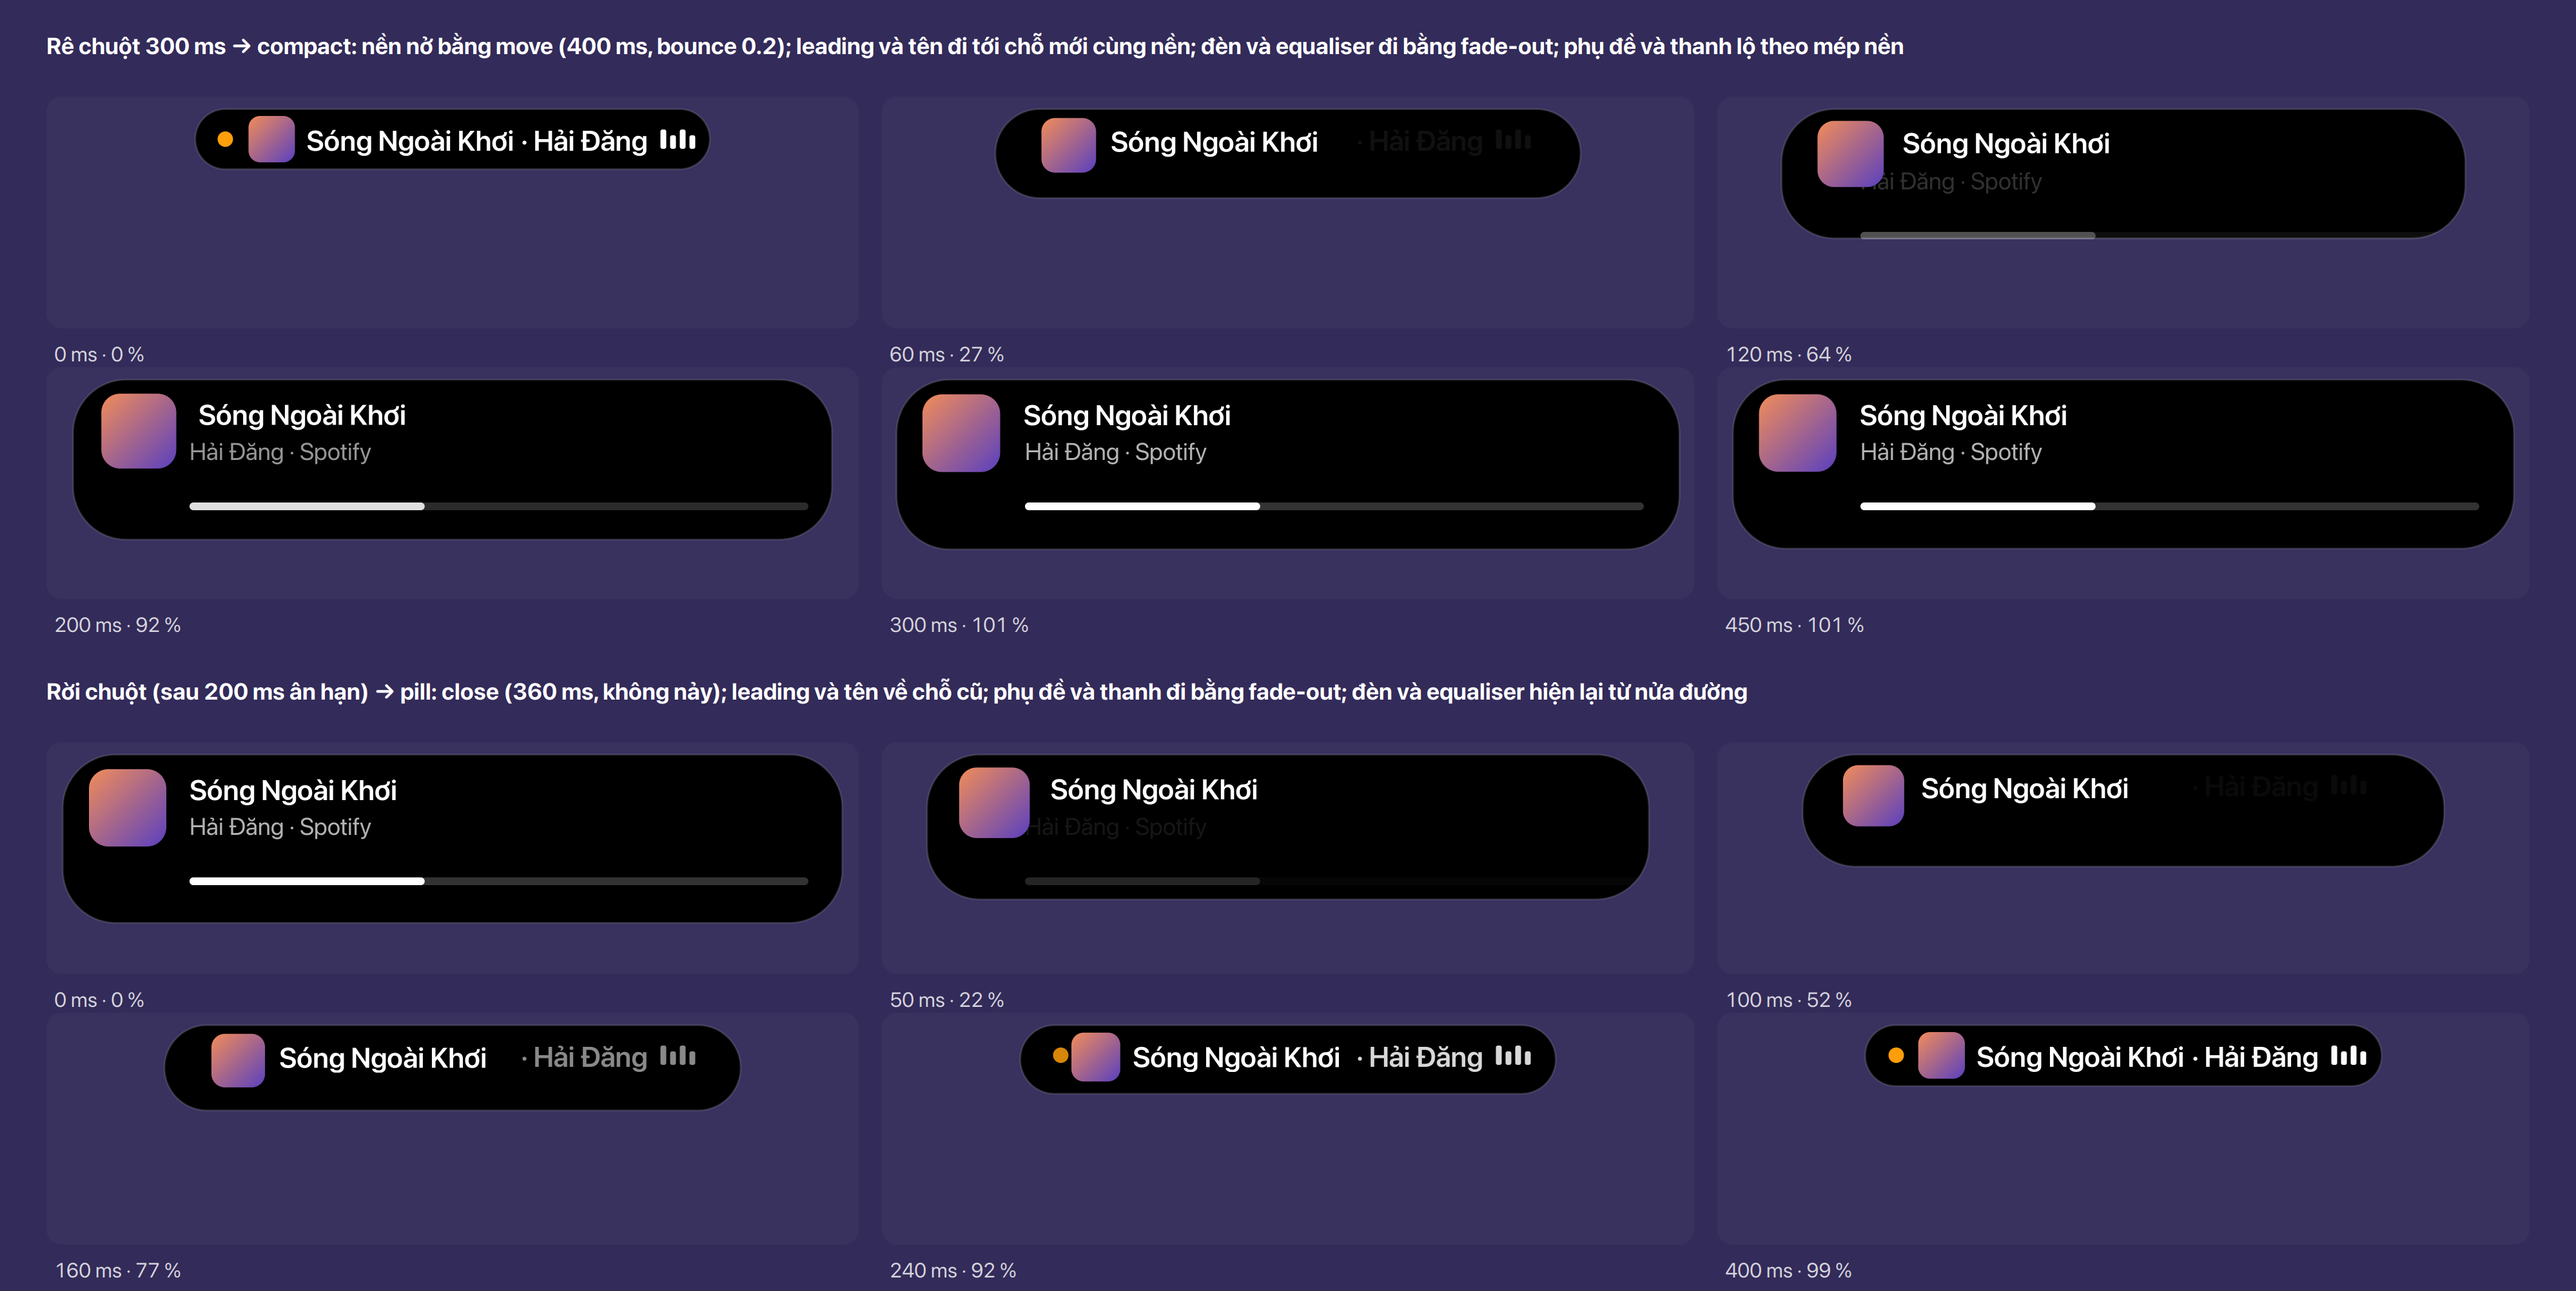
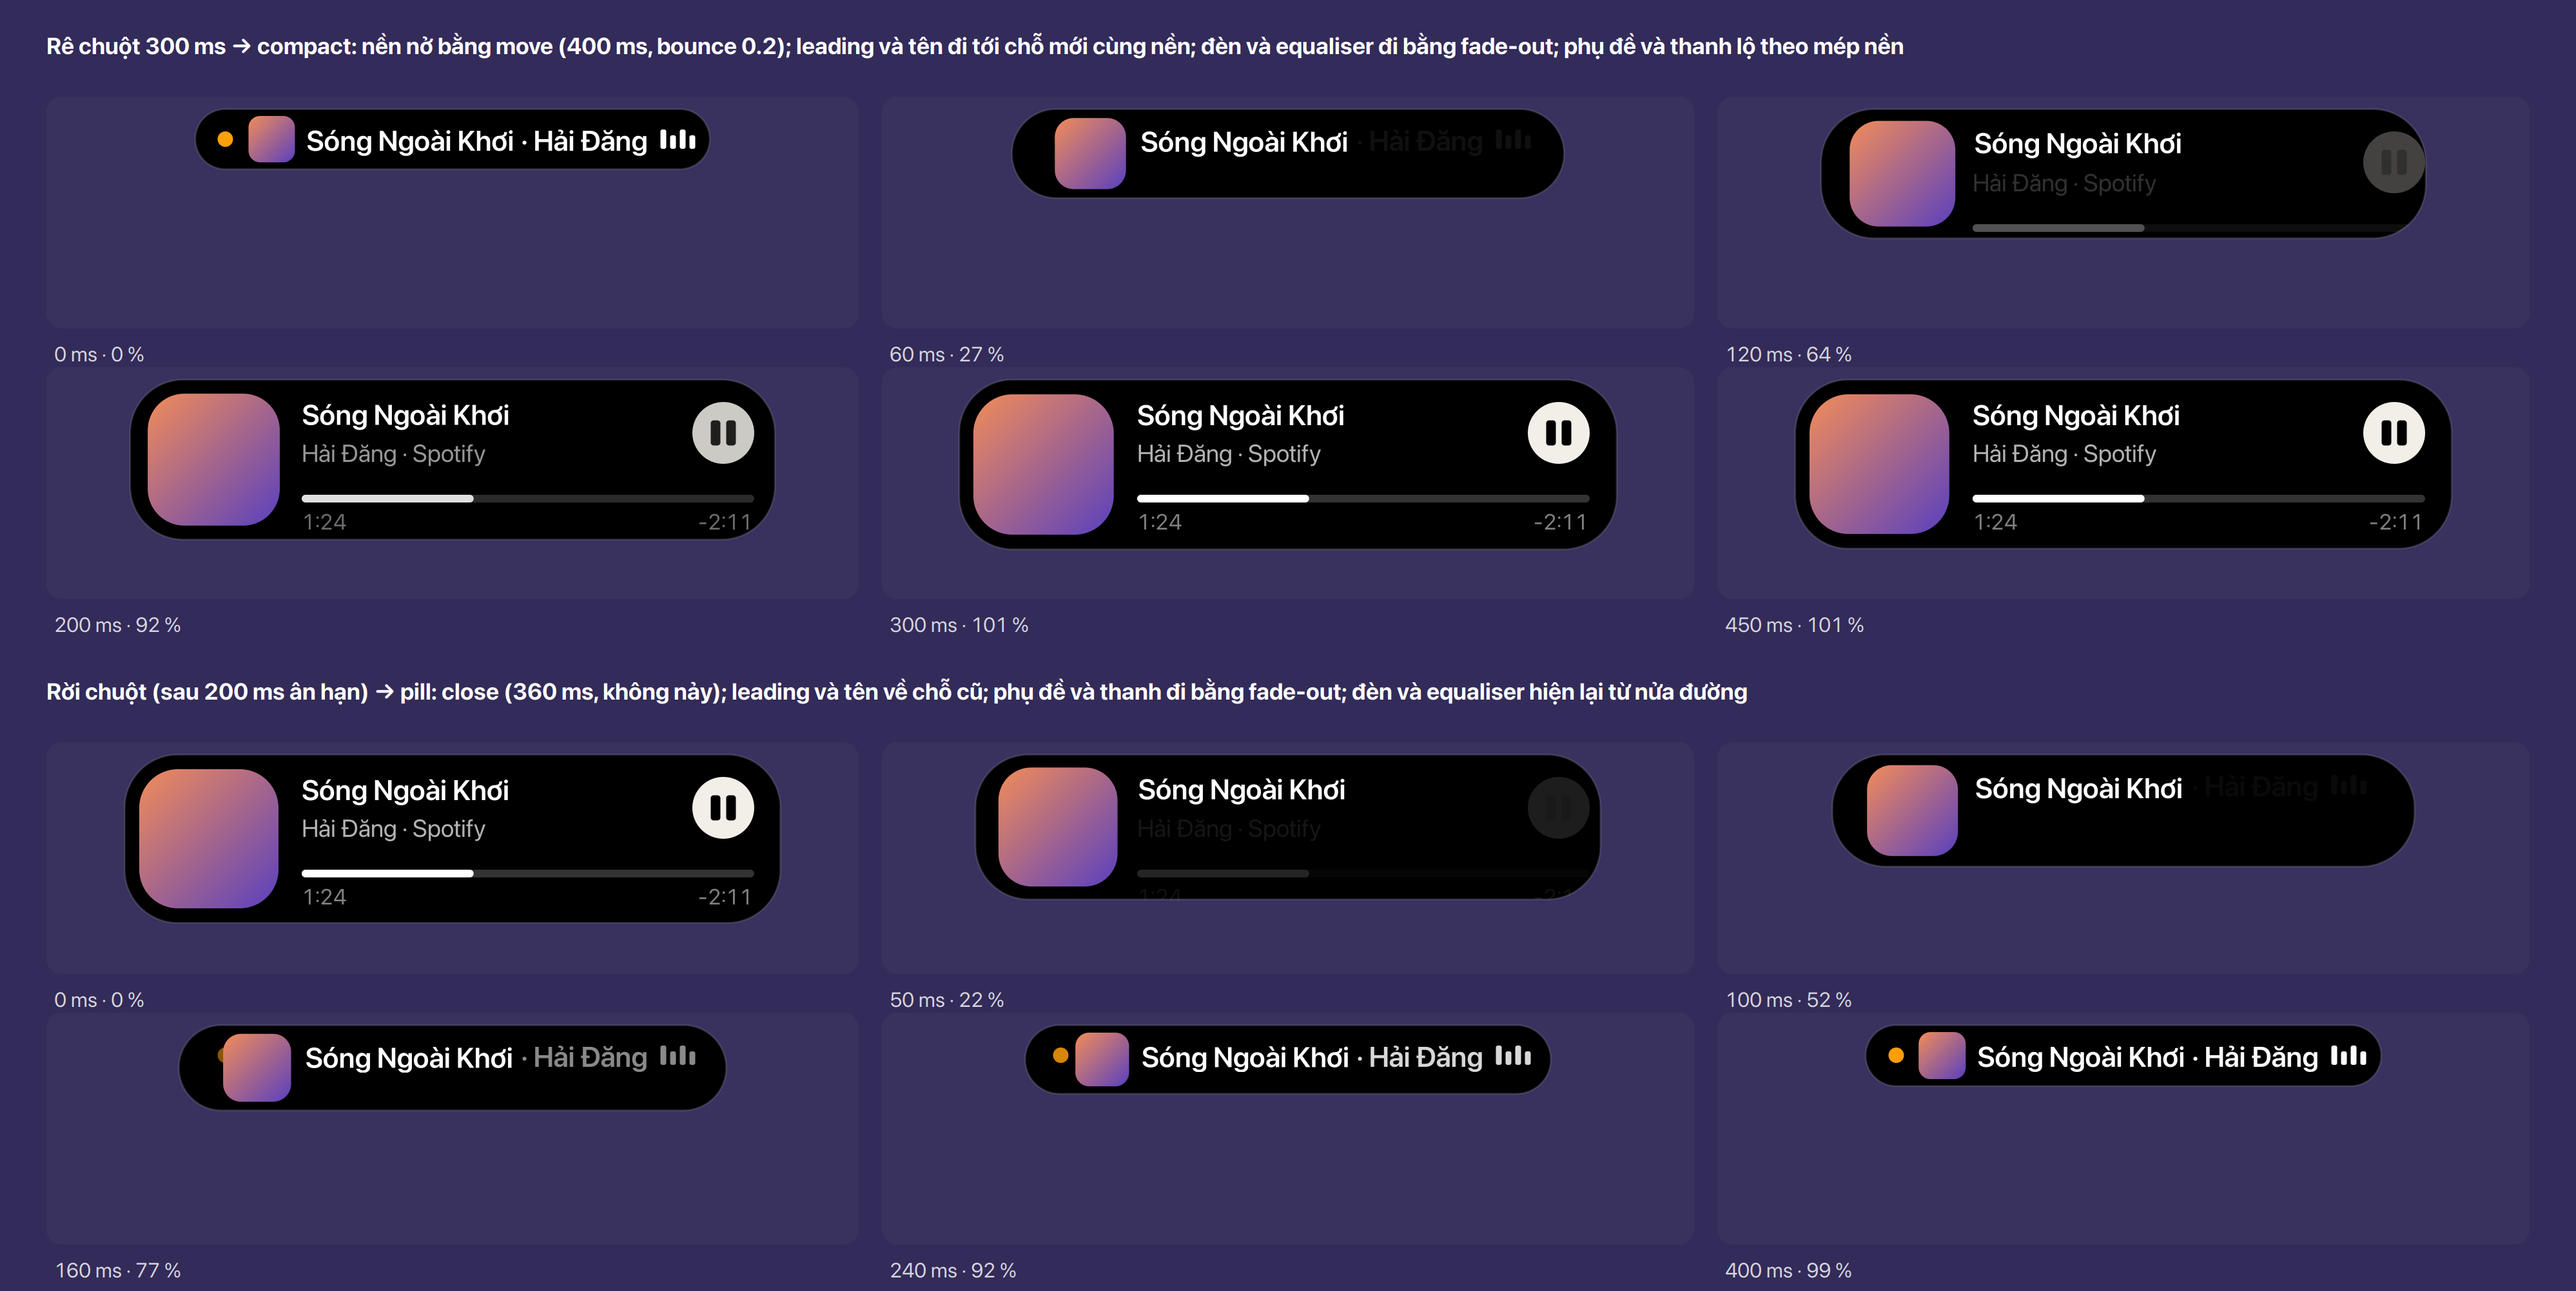
docs(design): motion pill → compact on the media 88 compact (#199)
docs(design): motion pill → compact drawn on the media 88 compact

The motion stills, clip and text drew an old compact (leading 40, no button, no times). Now the
compact is media 88 as decided (design/compact): the pill's leading 24 grows into the art 72
(bo 6 → 20) and travels to (8, 8), the title to 92; the subtitle, button, bar and times are
uncovered by the edge. Expanded's leading reads 24 → 88.

Refs: FEATURES.md M4 "Motion" (#194)

diff --git a/docs/design/motion/render/motion.js b/docs/design/motion/render/motion.js
@@ -77,9 +77,9 @@ function shape(x, y, w, h, alpha = 1) {
     cr.setSourceRGBA(1, 1, 1, C.BORDER * alpha); cr.setLineWidth(1); cr.stroke();
 }
 function clipTo(x, y, w, h) { cr.newPath(); rr(x, y, w, h, Math.min(h / 2, 28)); cr.clip(); }
-const art = (x, y, s, a = 1) => { // the sample cover (lib.js COVER)
+const art = (x, y, s, a = 1, r = s / 4) => { // the sample cover (lib.js COVER)
     const g = new cairo.LinearGradient(x, y, x + s, y + s); g.addColorStopRGBA(0, ...COVER[0], a); g.addColorStopRGBA(1, ...COVER[1], a);
-    cr.newPath(); rr(x, y, s, s, s / 4); cr.setSource(g); cr.fill();
+    cr.newPath(); rr(x, y, s, s, r); cr.setSource(g); cr.fill();
 };
 const caption = (t, x, y, opts = {}) => text(t, x, y, {sz: 8, a: .8, ...opts});
 function title(t, x, y, maxW = 0) {
@@ -152,13 +152,16 @@ function curves() {
 // wider than hinted at 1×, and " · artist" must start where the drawn title ends.
 const BY = ` · ${SAMPLE.artist}`;
 let TITLE_W = 0;
-const PILL = {w: 0, h: 32, lead: {x: 28, y: 4, s: 24}, title: {x: 58, y: 8, sz: 11}};
-const COMPACT = {w: 404, h: 88, lead: {x: 14, y: 8, s: 40}, title: {x: 66, y: 10, sz: 11}};
-const EXP = {w: 560, h: 280, lead: {x: 20, y: 64, s: 88}, title: {x: 120, y: 74, sz: 13}};
+// The compact is media 88 (design/compact): the art 72 at 8 with bo 20, the text 12 after it, the
+// round button 14 from the right edge, the bar and the times under the text; as wide as the
+// compact's anatomy drawing (340).
+const PILL = {w: 0, h: 32, lead: {x: 28, y: 4, s: 24, r: 6}, title: {x: 58, y: 8, sz: 11}};
+const COMPACT = {w: 340, h: 88, lead: {x: 8, y: 8, s: 72, r: 20}, title: {x: 92, y: 10, sz: 11}};
+const EXP = {w: 560, h: 280, lead: {x: 20, y: 64, s: 88, r: 22}, title: {x: 120, y: 74, sz: 13}};
 function shared(cx, y, from, to, x, a = 1) {
     const at = (f, k) => ({x: cx - f.w / 2 + f[k].x, y: y + f[k].y});
     const l0 = at(from, 'lead'), l1 = at(to, 'lead'), t0 = at(from, 'title'), t1 = at(to, 'title');
-    art(lerp(l0.x, l1.x, x), lerp(l0.y, l1.y, x), lerp(from.lead.s, to.lead.s, x), a);
+    art(lerp(l0.x, l1.x, x), lerp(l0.y, l1.y, x), lerp(from.lead.s, to.lead.s, x), a, lerp(from.lead.r, to.lead.r, x));
     text(SAMPLE.track, lerp(t0.x, t1.x, x), lerp(t0.y, t1.y, x), {sz: lerp(from.title.sz, to.title.sz, x), wt: 600, a});
 }
 function pillRest(cx, y, a) { // the light, " · artist" and the equaliser: only the pill has them
@@ -168,12 +171,16 @@ function pillRest(cx, y, a) { // the light, " · artist" and the equaliser: only
     text(BY, x + PILL.title.x + TITLE_W, y + PILL.title.y, {sz: 11, wt: 600, a});
     for (let i = 0; i < 4; i++) fill([1, 1, 1, a], x + PILL.w - 26 + i * 5, y + 11 + (i % 2) * 3, 3, 10 - (i % 2) * 3, 1);
 }
-function compactRest(cx, y, a) { // the subtitle and the bar: only the compact has them
+function compactRest(cx, y, a) { // the subtitle, the button, the bar, the times: only the compact has them
     if (a <= 0) return;
-    const x = cx - COMPACT.w / 2;
-    text(SAMPLE.sub, x + 66, y + 30, {sz: SUB, a: a * C.FG_MUTED});
-    fill([1, 1, 1, .2 * a], x + 66, y + 64, COMPACT.w - 66 - 18, 4, 2);
-    fill([1, 1, 1, a], x + 66, y + 64, (COMPACT.w - 84) * .38, 4, 2);
+    const x = cx - COMPACT.w / 2, tx = x + COMPACT.title.x, xr = x + COMPACT.w - 14, by = y + 60;
+    text(SAMPLE.sub, tx, y + 30, {sz: 9.5, a: a * C.FG_MUTED});
+    cr.newPath(); cr.arc(xr - 16, y + 28, 16, 0, 2 * Math.PI); cr.setSourceRGBA(...C.CREAM, a); cr.fill();
+    icon(cr, 'pause-fill', xr - 24, y + 20, 16, C.BLACK, a);
+    fill([1, 1, 1, C.FILL3 * a], tx, by, xr - tx, 4, 2);
+    fill([1, 1, 1, a], tx, by, (xr - tx) * .38, 4, 2);
+    text('1:24', tx, by + 7, {sz: 8.5, a: .5 * a});
+    text('-2:11', xr, by + 7, {sz: 8.5, a: .5 * a, right: true});
 }
 const REST = {pill: pillRest, compact: compactRest, expanded: (cx, y, a) => panel(cx, y, a)};
 // travel false: today's rule (SPEC §5), the shared parts leave and arrive like the rest
@@ -383,7 +390,7 @@ function clipCompact() {
             else if (ph.dir === 1)
                 morph(24, fy, CW, PILL, COMPACT, mine ? grow(ph.ms / 1000) : backOut(ph.ms / 460), ph.ms, rest, mine);
             else
-                morph(24, fy, CW, COMPACT, PILL, mine ? shrink(ph.ms / 1000) : todayShrink(ph.ms / 1000, .36, 271), ph.ms, back, mine);
+                morph(24, fy, CW, COMPACT, PILL, mine ? shrink(ph.ms / 1000) : todayShrink(ph.ms / 1000, .36, COMPACT.w - PILL.w), ph.ms, back, mine);
         });
         return cr.getTarget();
     });

diff --git a/docs/design/motion/index.vi.md b/docs/design/motion/index.vi.md
@@ -27,8 +27,9 @@ và cách từng chuyển diễn ra; số dùng chung ở [Bảng số](../token
 - **Không blur** (luật 8). Chỗ Apple dùng blur khi đổi nội dung, Buoy dùng độ mờ và mép hình. **Chốt**
 - **Phần chung đi tới chỗ mới**, như HIG (Live Activities): "animating existing elements to their new
   positions rather than removing and animating them back in". Phần có ở cả hai dạng (leading, tên)
-  đi cùng nền bằng cùng lò xo: leading 20 của minimal lớn lên và tới chỗ leading 40 của compact, tên
-  tới chỗ tên. Phần chỉ có ở một dạng (đèn, equaliser, phụ đề, thanh, nút) vẫn như nay: phần đi thì
+  đi cùng nền bằng cùng lò xo: leading 24 của pill lớn lên và tới chỗ leading của compact (40 ở phần
+  đầu 56, ảnh bìa 72 ở nhạc 88), tên tới chỗ tên. Phần chỉ có ở một dạng (đèn, equaliser, phụ đề,
+  thanh, giờ, nút) vẫn như nay: phần đi thì
   `fade-out`, phần đến thì lộ theo mép nền. Thay luật "nội dung không dời, không đổi cỡ trong lúc
   morph" của SPEC §5 (2026-11-02), luật đó đặt ra vì chữ của expanded từng hiện đủ rộng khi nền còn
   nhỏ; mép nền vẫn cắt mọi thứ nên lỗi đó không quay lại. Chỉ dời bằng `translation` và phóng bằng
@@ -61,19 +62,21 @@ nguyên.
 
 ![Pill thành compact và về lại: đề xuất và hiện nay (chạy thật, 30 fps; đề xuất ở trên, hiện nay ở dưới)](clips/compact.vi.png)
 
-**Pill ↔ compact.** Rê chuột 300 ms: nền nở bằng `move` từ chính pill (đỉnh đứng yên, nở xuống và
-sang hai bên quanh tâm). Leading và tên đi tới chỗ của chúng trong compact cùng nền; đèn và
-equaliser đi bằng `fade-out` ngay; phụ đề và thanh đứng sẵn ở chỗ cuối, lộ theo mép nền, độ mờ đi từ
-0 ở nửa đường tới đủ ở cuối. Pill bên cạnh mờ tại chỗ (`fade-out`). Rời chuột: đợi 200 ms, rồi
-`close`; leading và tên đi về chỗ cũ, phụ đề và thanh `fade-out`, đèn và equaliser `fade-in` từ nửa
-đường. **Đề xuất**
+**Pill ↔ compact** (hình vẽ compact nhạc 88). Rê chuột 300 ms: nền nở bằng `move` từ chính pill
+(đỉnh đứng yên, nở xuống và sang hai bên quanh tâm; cao 32 → 88, bo theo chiều cao 16 → 28). Leading
+24 lớn lên thành ảnh bìa 72 (× 3, bo 6 → 20) và đi từ (28, 4) tới (8, 8); tên đi tới chỗ tên, 12 sau
+ảnh bìa; cả hai cùng nền. Đèn, " · Hải Đăng" và equaliser đi bằng `fade-out` ngay; phụ đề, nút,
+thanh và giờ đứng sẵn ở chỗ cuối, lộ theo mép nền, độ mờ đi từ 0 ở nửa đường tới đủ ở cuối. Ảnh bìa
+luôn cách mép trên và dưới của nền ít nhất 4 nên không bị cắt. Pill bên cạnh mờ tại chỗ
+(`fade-out`). Rời chuột: đợi 200 ms, rồi `close`; ảnh bìa và tên đi về chỗ cũ, phụ đề, nút, thanh
+và giờ `fade-out`, đèn và equaliser `fade-in` từ nửa đường. **Đề xuất**
 
 ![Pill thành expanded, hai pill phụ gộp vào; rồi thu về](images/expanded.vi.png)
 
 ![Pill thành expanded và thu về: đề xuất và hiện nay (chạy thật, 30 fps; đề xuất ở trên, hiện nay ở dưới)](clips/expanded.vi.png)
 
 **Pill → expanded.** Bấm: nền nở bằng `open`. Khi tab mở ra có cùng activity (thẻ chính của Home,
-tab Media), leading của pill đi tới ảnh của nó ở đó (20 → 88) và tên tới chỗ tên; phần còn lại
+tab Media), leading của pill đi tới ảnh của nó ở đó (24 → 88) và tên tới chỗ tên; phần còn lại
 (thanh tab, thân tab) đứng sẵn ở chỗ cuối, lộ theo mép nền. Tab khác: mọi thứ lộ theo mép, nội dung
 pill `fade-out`. Pill phụ trượt vào giữa bằng `move` và mờ đi ở nửa sau (gộp). **Thu về:** ngược
 lại: ảnh và tên đi về pill bằng `close`, phần còn lại `fade-out`; pill phụ trượt ra bằng `move` và
